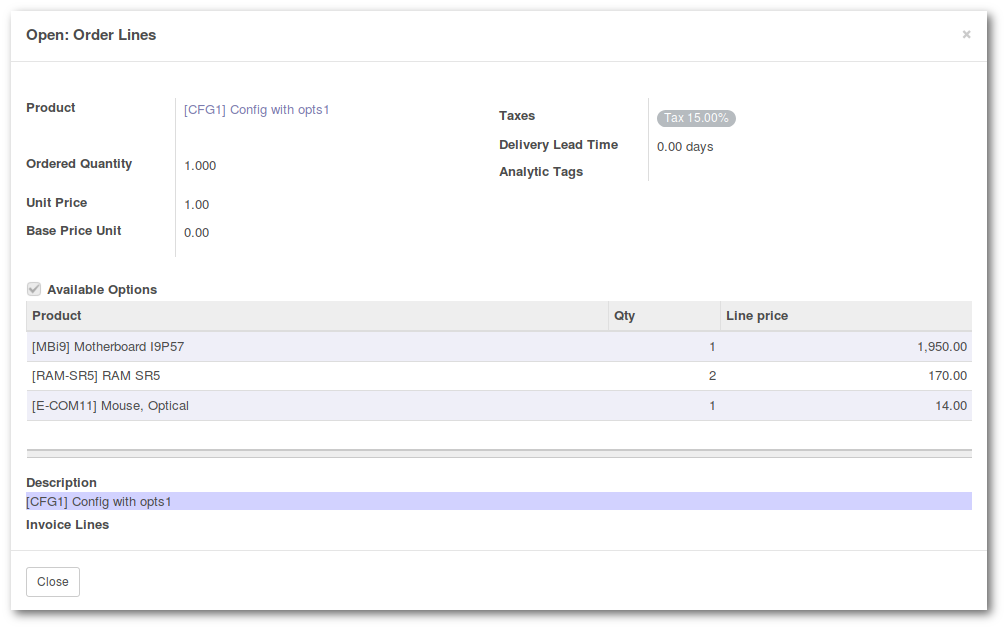
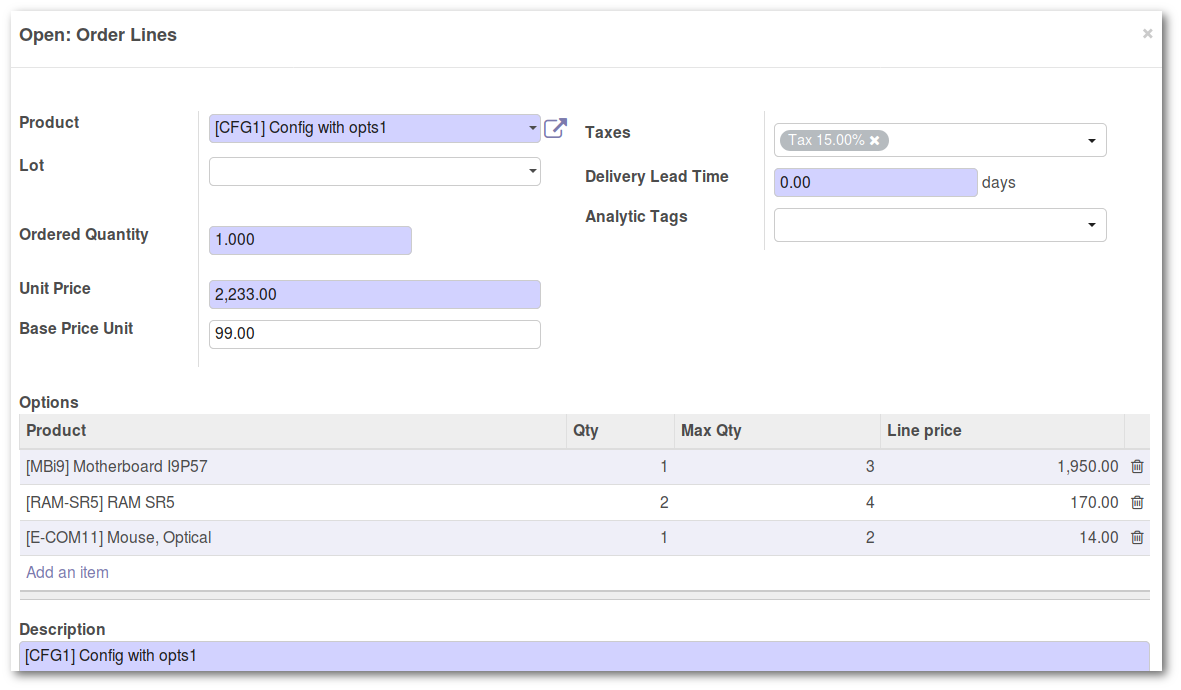
FIX play onchange in sale line

diff --git a/models/sale.py b/models/sale.py
@@ -23,6 +23,7 @@ class SaleOrderLine(models.Model):
     def create(self, vals):
         if 'product_id' in vals:
             product = self.env['product.product'].browse(vals['product_id'])
+            vals = self.play_onchanges(vals, ['product_id', 'product_uom_qty'])
             price_unit = vals.get('price_unit', 0.0)
             vals.update(self._set_product(product, price_unit))
         return super(SaleOrderLine, self).create(vals)
@@ -37,7 +38,6 @@ class SaleOrderLine(models.Model):
                 self[field] = values[field]
         return res
 
-    @api.model
     def _set_product(self, product, price_unit):
         """ Shared code between onchange and create/write methods """
         implied = {}
@@ -98,10 +98,11 @@ class SaleOrderLineOption(models.Model):
     product_id = fields.Many2one(
         comodel_name='product.product', string='Product', required=True)
     qty = fields.Integer(default=1)
-    opt_max_qty = fields.Integer(related='bom_line_id.opt_max_qty')
+    opt_max_qty = fields.Integer(
+        related='bom_line_id.opt_max_qty', readonly=True)
     invalid_qty = fields.Boolean(
-        compute='_compute_invalid_qty',
-        store=True)
+        compute='_compute_invalid_qty', store=True,
+        help="Can be used to prevent confirmed sale order")
     line_price = fields.Float(compute='_compute_price', store=True)
 
     @api.model
@@ -112,6 +113,12 @@ class SaleOrderLineOption(models.Model):
             bom_lines = self.env['mrp.bom.line'].with_context(
                 filter_bom_with_product=line_product_id).search([])
             res['product_ids'] = [x.product_id.id for x in bom_lines]
+        return res
+
+    @api.model
+    def create(self, vals):
+        res = super(SaleOrderLineOption, self).create(vals)
+        res.sale_line_id._onchange_option()
         return res
 
     @api.onchange('product_id')
@@ -150,7 +157,6 @@ class SaleOrderLineOption(models.Model):
             else:
                 record.line_price = 0
 
-    @api.multi
     @api.depends('qty')
     def _compute_invalid_qty(self):
         for record in self:
@@ -160,17 +166,19 @@ class SaleOrderLineOption(models.Model):
             else:
                 record.invalid_qty = False
 
-    @api.multi
     @api.onchange('qty')
     def onchange_qty(self):
         for record in self:
-            if self.bom_line_id and record.opt_max_qty < record.qty:
+            if record.bom_line_id and record.opt_max_qty < record.qty:
+                max_val = record.qty
+                record.qty = record.opt_max_qty
                 return {'warning': {
                     'title': _('Error on quantity'),
                     'message': _(
                         "Maximal quantity of this option is %(max)s.\n"
-                        "You encoded %(qty)s.") % {
-                            'qty': record.qty,
+                        "You encoded %(qty)s.\n"
+                        "Quantity is set max value") % {
+                            'qty': max_val,
                             'max': record.opt_max_qty}
                     }
                 }

diff --git a/tests/test_change_option.py b/tests/test_change_option.py
@@ -10,7 +10,17 @@ _logger = logging.getLogger(__name__)
 
 class TestOptionCase(TransactionCase):
 
-    def test_sale_line_change(self):
+    def test10_option_qty(self):
+        qties = {
+            x.product_id: x.option_qty
+            for x in self.env.ref(
+                'sale_line_option.bom_pc_assmb_option1').bom_line_ids}
+        for line in self.sale_line.option_ids:
+            self.assertTrue(
+                line.qty == qties[line.product_id],
+                "Option qty error on product %s" % line.product_id.name)
+
+    def test20_sale_line_change(self):
         "Check if all required options are refresh when we change the product"
         # We have 3 options
         self.assertTrue(len(self.sale_line.option_ids) == 3,
@@ -29,7 +39,7 @@ class TestOptionCase(TransactionCase):
         bom_opt = self.env.ref('sale_line_option.bom_pc_assmb_option2')
         bom_products = [x.product_id
                         for x in bom_opt.bom_line_ids
-                        if x.default_qty > 0]
+                        if x.option_qty > 0]
         _logger.debug('  >>> Bom product ids: %s',
                       [x.name for x in bom_products])
         self.assertTrue(len(bom_products) > 0,
@@ -38,7 +48,7 @@ class TestOptionCase(TransactionCase):
             self.assertEqual(set(bom_products), set(option_products),
                              "Bom and option products should be identical")
 
-    def test_check_option_line_when_bom_change(self):
+    def test30_check_option_line_when_bom_change(self):
         "Check if remove bom.line have no impact on option lines"
         bom_line = self.env.ref('sale_line_option.bom_line_pc_assmb_option13')
         product = bom_line.product_id

diff --git a/__manifest__.py b/__manifest__.py
@@ -12,6 +12,7 @@
     'category': 'Sale',
     'depends': [
         'sale_order_lot_mrp',
+        'onchange_helper',
     ],
     'data': [
         'views/sale_view.xml',
@@ -21,8 +22,8 @@
         'security/ir.model.access.csv',
     ],
     'demo': [
+        'demo/config.yml',
         'demo/product_demo.xml',
-        # 'demo/config.yml',
     ],
     'installable': True,
 }

diff --git a/models/__init__.py b/models/__init__.py
@@ -1,3 +1,3 @@
-from . import sale
 from . import mrp
+from . import sale
 from . import stock

diff --git a/README.rst b/README.rst
@@ -50,7 +50,6 @@ To use this module, you need to:
 Known issues / Roadmap
 ======================
 
-* ...
 
 Bug Tracker
 ===========
@@ -72,7 +71,7 @@ Contributors
 ------------
 
 * Valentin Chemiere <valentin.chemiere@akretion.com>
-* David Béal <valentin.chemiere@akretion.com>
+* David Béal <david.beal@akretion.com>
 
 
 Do not contact contributors directly about support or help with technical issues.
